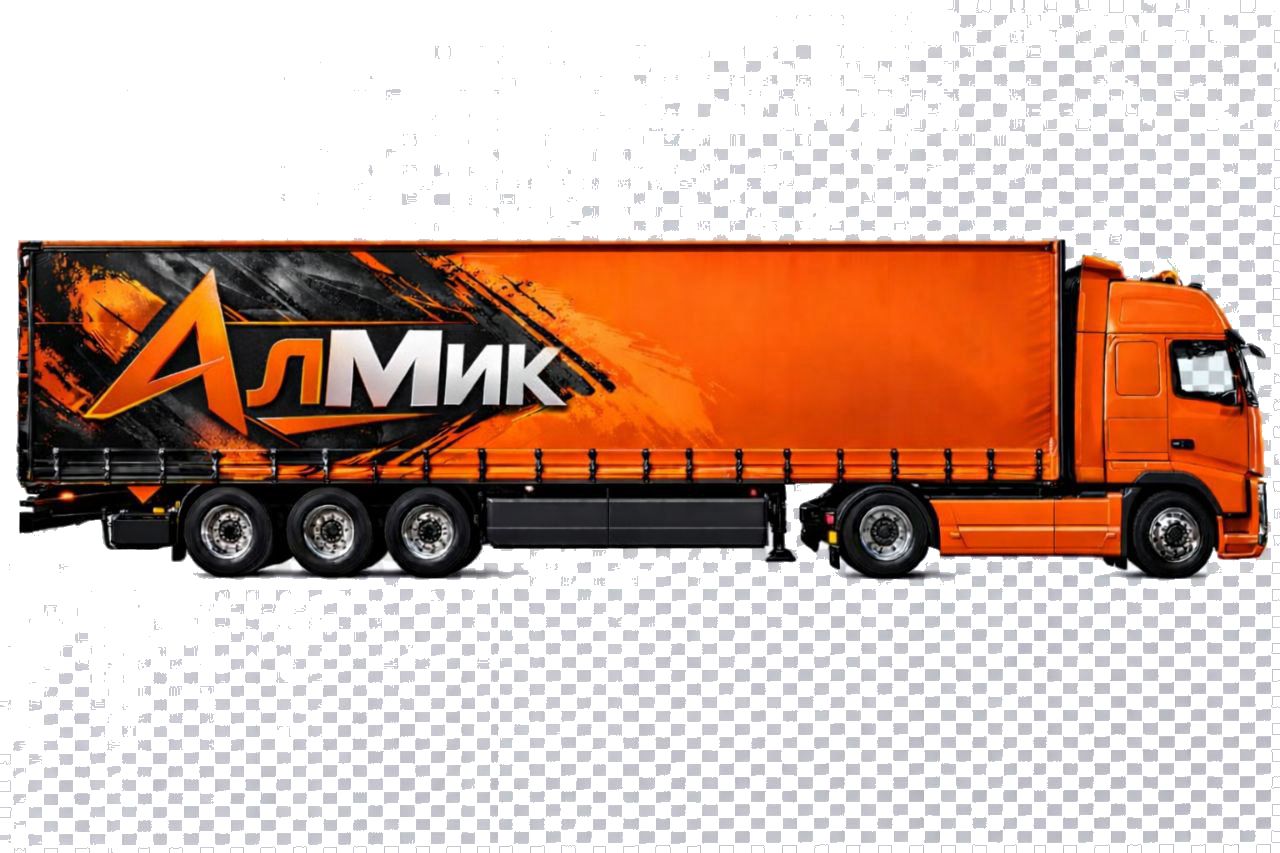
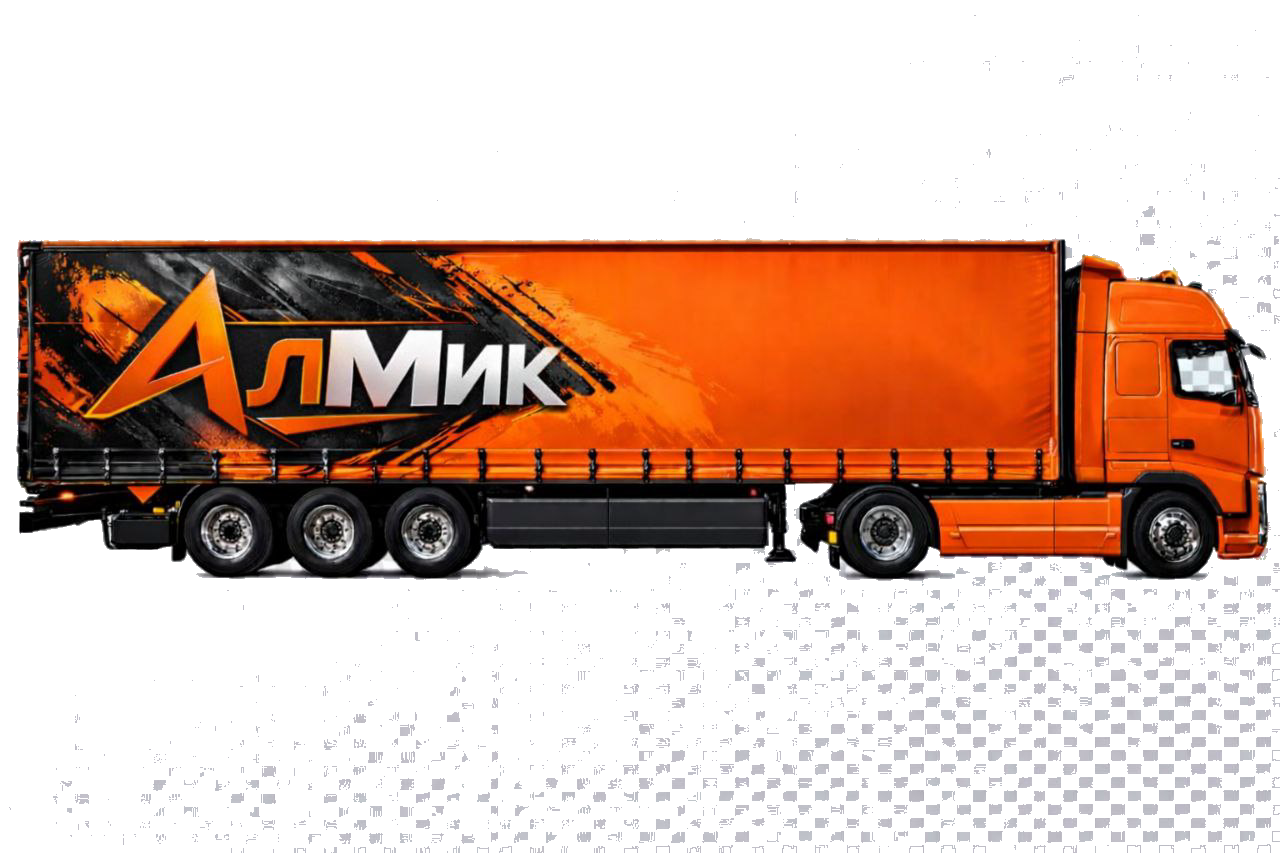
Improve truck images by removing backgrounds and increasing size
Update truck images to use PNG format with transparent backgrounds and increase their display size.

Replit-Commit-Author: Agent
Replit-Commit-Session-Id: 43d66210-9aed-4939-ba30-85d4704b8af1
Replit-Commit-Checkpoint-Type: full_checkpoint
Replit-Commit-Event-Id: e6592a1b-e066-424c-91d2-ae7ebf148a78
Replit-Commit-Screenshot-Url: https://storage.googleapis.com/screenshot-production-us-central1/62407fda-b274-4f99-b3c8-efa54a455abf/43d66210-9aed-4939-ba30-85d4704b8af1/q7Xmbvf
Replit-Helium-Checkpoint-Created: true

diff --git a/client/src/pages/Home.tsx b/client/src/pages/Home.tsx
@@ -207,7 +207,7 @@ export default function Home() {
         src={truckMap[type]}
         alt={type}
         style={{
-          height: "60px",
+          height: "80px",
           width: "auto",
           objectFit: "contain",
           objectPosition: "center",
